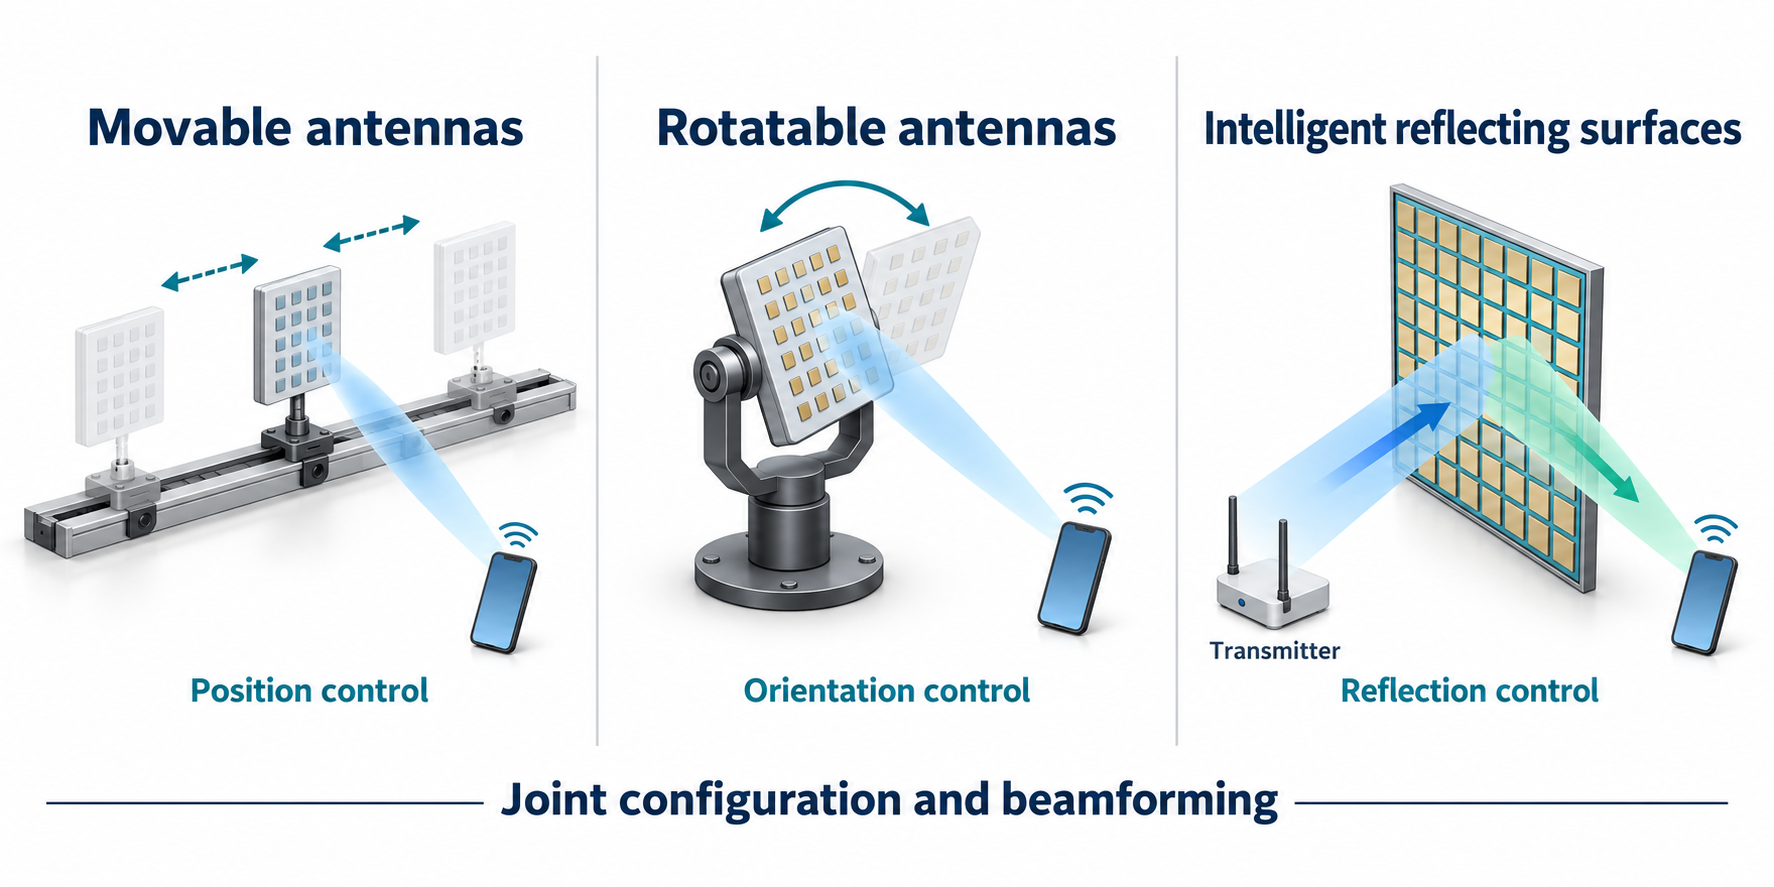
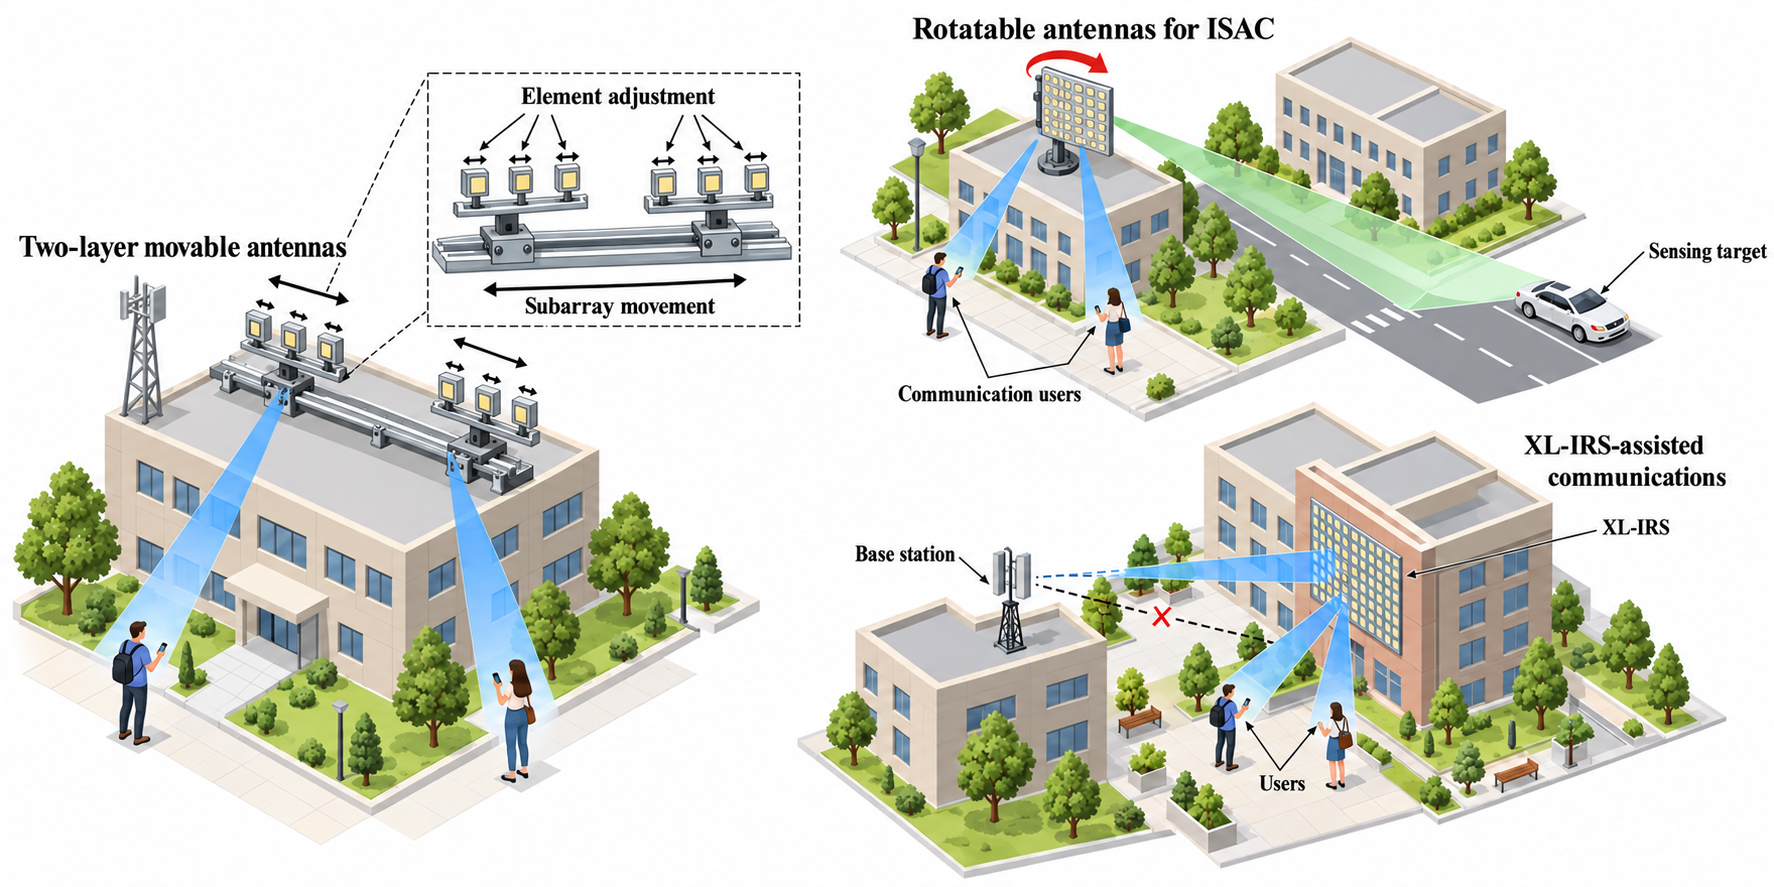
Ground research descriptions in publications and use white scenario illustrations

diff --git a/assets/css/academic.css b/assets/css/academic.css
@@ -1,6 +1,6 @@
 /* Shared academic template for all site pages. */
-body { color: #333; background: #fff; }
-.page__content, .page__content * { font-family: Georgia, "Times New Roman", serif; }
+body { color: #333; background: #fff; font-family: "Times New Roman", Times, serif; }
+.page__content, .page__content * { font-family: "Times New Roman", Times, serif; }
 .page__content { color: #333; font-size: 18px; line-height: 1.65; }
 .page__content p, .page__content li { text-align: justify; text-justify: inter-word; }
 .page__content a, .sidebar a, .masthead a, .page__footer a,
@@ -9,12 +9,13 @@ body { color: #333; background: #fff; }
 .page__content a:hover, .sidebar a:hover, .masthead a:hover, .page__footer a:hover { color: #111; text-decoration: underline; text-underline-offset: 3px; }
 a:focus-visible { outline: 2px solid #111; outline-offset: 4px; }
 .greedy-nav .visible-links a::before { background: #111; }
+.sidebar { font-family: "Times New Roman", Times, serif; }
 .sidebar, .sidebar .social-icons i { color: #333 !important; }
-.sidebar .author__name { color: #111; font-family: Georgia, "Times New Roman", serif; }
+.sidebar .author__name { color: #111; font-family: "Times New Roman", Times, serif; }
 .sidebar .author__avatar img { width: 160px; height: 160px; object-fit: cover; object-position: center; padding: 0; border: 0; border-radius: 50%; }
 
 /* Shared navigation and profile on every page. */
-.masthead .greedy-nav a, .masthead .greedy-nav a:visited { color: #111; font-family: "Segoe UI", Arial, sans-serif; font-weight: 700; text-decoration: none; }
+.masthead .greedy-nav a, .masthead .greedy-nav a:visited { color: #111; font-family: "Times New Roman", Times, serif; font-weight: 700; text-decoration: none; }
 .masthead .greedy-nav a:hover { color: #111; text-decoration: underline; text-underline-offset: 3px; }
 .masthead .greedy-nav .visible-links a::before { background: #111; }
 .sidebar .author__urls a, .sidebar .author__urls_sm a { color: #111; font-weight: 700; text-decoration: none; }
@@ -36,7 +37,7 @@ body .photo-item:hover { border-color: #ccc; }
 body .photo-caption { color: #555; }
 
 /* Keep the interactive community's own controls legible in both themes. */
-.dc-page, .dc-page * { font-family: "Segoe UI", Arial, sans-serif; }
+.dc-page, .dc-page * { font-family: "Times New Roman", Times, serif; }
 .dc-page p, .dc-page li { text-align: left; }
 .dc-page a, .dc-page a:visited, .dc-page a:hover { color: var(--dc-text); }
 .dc-page b, .dc-page strong { color: inherit; }
@@ -96,7 +97,7 @@ body .page__content .page-directory a:hover {
 /* Shared main navigation: title-sized labels, current-page color, separators. */
 .masthead #site-nav a,
 .masthead #site-nav a:visited {
-  color: #111; font-family: "Segoe UI", Arial, sans-serif;
+  color: #111; font-family: "Times New Roman", Times, serif;
   font-size: 32px; font-weight: 700; line-height: 1.2;
 }
 .masthead .masthead__menu-item--lg { padding-right: 0; }
@@ -124,7 +125,7 @@ body .page__content .page-directory a:hover {
 .research-topic p { margin: 0 0 16px; }
 .page__content .research-figure { display: block; width: 100%; margin: 24px 0 0; }
 .page__content .research-figure img { display: block; width: 100%; max-width: none; height: auto; margin: 0 auto; border: 1px solid #e5e5e5; border-radius: 0; background: #fff; }
-.page__content .research-figure figcaption { margin: 10px 0 0; color: #666; font-family: Georgia, "Times New Roman", serif; font-size: 14px; line-height: 1.5; text-align: center; }
+.page__content .research-figure figcaption { margin: 10px 0 0; color: #666; font-family: "Times New Roman", Times, serif; font-size: 14px; line-height: 1.5; text-align: center; }
 @media (max-width: 767px) {
   .page__content .research-topic h3 { font-size: 21px; }
   .research-topic { margin-bottom: 30px; }

diff --git a/_pages/about.md b/_pages/about.md
@@ -76,37 +76,37 @@ redirect_from:
 <div class="research-overview">
   <section class="research-topic" aria-labelledby="research-nfc">
     <h3 id="research-nfc">Near-field Communications (NFC)</h3>
-    <p>Near-field communications exploit the spherical wavefronts of large antenna arrays, making wireless channels dependent on both angle and distance. This enables spatially focused transmission and creates new opportunities for communications and sensing.</p>
-    <p><strong>My focus:</strong> I focus on flexible beamforming and beam coverage, mixed near-field and far-field communications, and robust transmission design. My work also explores physical-layer security and target localization in extremely large-scale MIMO (XL-MIMO) systems.</p>
+    <p>Near-field communications account for the spherical wavefronts of large antenna arrays, so that the channel response depends on both the angle and distance of a terminal. This angle–distance dependence supports beam focusing and motivates different designs from conventional far-field beam steering.</p>
+    <p><strong>My focus:</strong> My work covers <a href="https://doi.org/10.1109/TWC.2026.3717922">Fourier-transform-based beam coverage design</a> in near-field and far-field regions, <a href="https://doi.org/10.1109/TWC.2026.3690730">robust near-field beamforming under eavesdropper location uncertainty</a>, and <a href="https://doi.org/10.1109/TWC.2026.3673378">movable XL-array design for mixed-field covert communications</a>. These studies address beam coverage, secrecy robustness, and the joint optimization of subarray positions and transmit beamforming, respectively.</p>
     <figure class="research-figure">
-      <a class="research-image-link" href="/images/research/near-field-en.png" target="_blank" rel="noopener noreferrer" aria-label="Open full-resolution near field illustration">
-        <img src="/images/research/near-field-en.png" width="1672" height="941" loading="lazy" decoding="async" alt="English illustration of near-field and far-field wireless communication scenarios around an XL-MIMO base station.">
+      <a class="research-image-link" href="/images/research/near-field-en.png?v=20261009-white" target="_blank" rel="noopener noreferrer" aria-label="Open full-resolution near field illustration">
+        <img src="/images/research/near-field-en.png?v=20261009-white" width="1672" height="941" loading="lazy" decoding="async" alt="English illustration of near-field and far-field wireless communication scenarios around an XL-MIMO base station.">
       </a>
-      <figcaption>Near-field and far-field communications across industrial, urban, aerial, and campus scenarios.</figcaption>
+      <figcaption>Conceptual near-field and far-field communication scenarios; illustration only.</figcaption>
     </figure>
   </section>
 
   <section class="research-topic" aria-labelledby="research-antennas">
     <h3 id="research-antennas">Intelligent Antennas and Surfaces</h3>
-    <p>Intelligent antennas and surfaces introduce new ways to shape wireless propagation. Reconfigurable antennas adjust their positions or orientations, while intelligent reflecting surfaces (IRSs) tune reflected signals to improve the wireless channel.</p>
-    <p><strong>My focus:</strong> I focus on movable and rotatable antenna systems, IRS-assisted communications, and the joint design of antenna configurations, surface responses, and beamforming. My work also studies channel estimation and system deployment for large-scale IRSs.</p>
+    <p>Intelligent antennas and surfaces provide additional ways to configure a wireless channel: antennas can change position or orientation, while an intelligent reflecting surface (IRS) controls the reflected signal. Their configuration and placement affect the communication and sensing links.</p>
+    <p><strong>My focus:</strong> My published work includes <a href="https://doi.org/10.1109/LWC.2025.3580889">joint array-rotation and transmit-beamforming design for integrated sensing and communications</a>, <a href="https://doi.org/10.1109/LWC.2026.3651470">two-layer movable antenna positioning</a> through subarray movement and per-subarray element adjustment, and <a href="https://doi.org/10.1109/ICSIDP62679.2024.10868156">XL-IRS deployment optimization for multi-user communications</a>. The respective design objectives are balancing user sum-rate and target angle estimation, maximizing communication sum-rate, and optimizing surface placement for near-field multi-user transmission.</p>
     <figure class="research-figure">
-      <a class="research-image-link" href="/images/research/intelligent-antennas-en.png" target="_blank" rel="noopener noreferrer" aria-label="Open full-resolution intelligent antennas illustration">
-        <img src="/images/research/intelligent-antennas-en.png" width="1774" height="887" loading="lazy" decoding="async" alt="Original English illustration in three panels showing movable antenna position control, rotatable antenna orientation control, and intelligent reflecting surface reflection control.">
+      <a class="research-image-link" href="/images/research/intelligent-antennas-en.png?v=20261009-white" target="_blank" rel="noopener noreferrer" aria-label="Open full-resolution intelligent antennas illustration">
+        <img src="/images/research/intelligent-antennas-en.png?v=20261009-white" width="1774" height="887" loading="lazy" decoding="async" alt="White-background academic campus scenarios illustrating two-layer movable antenna positioning, rotatable antennas for ISAC, and XL-IRS-assisted multi-user communications, with black serif labels.">
       </a>
-      <figcaption>Position control, orientation control, and reflection control for joint configuration and beamforming.</figcaption>
+      <figcaption>Separate conceptual scenarios for two-layer movable antennas, rotatable-antenna ISAC, and XL-IRS-assisted multi-user communications; illustration only.</figcaption>
     </figure>
   </section>
 
   <section class="research-topic" aria-labelledby="research-backscatter">
     <h3 id="research-backscatter">Backscatter Communications and Symbiotic Radio</h3>
-    <p>Backscatter communications allow low-power devices to convey data by modulating and reflecting an incident radio signal. Symbiotic radio (SR) integrates these secondary transmissions with a primary communication link, allowing the two systems to share spectrum and signal resources.</p>
-    <p><strong>My focus:</strong> I focus on symbiotic radio systems assisted by active RISs, STAR-RISs, and movable antennas. My research develops joint beamforming and resource-allocation methods to reduce transmit power, improve energy efficiency, and enhance transmission security while supporting both primary and secondary links.</p>
+    <p>Backscatter communication conveys information by modulating and reflecting an incident radio signal. In symbiotic radio, the secondary transmission uses the primary signal as its carrier, and the primary and secondary links operate together.</p>
+    <p><strong>My focus:</strong> My work studies <a href="https://doi.org/10.1109/TCCN.2023.3306367">transmit-power minimization for STAR-RIS-assisted symbiotic radio</a> by designing active beamforming and surface transmission/reflection coefficients; <a href="https://doi.org/10.1109/TWC.2023.3265770">robust secure multicast transmission with an active RIS</a> under imperfect eavesdropper channel information; and <a href="https://doi.org/10.1109/LWC.2024.3443460">movable-antenna-enabled symbiotic radio</a> to improve primary and secondary rates through antenna positioning.</p>
     <figure class="research-figure">
-      <a class="research-image-link" href="/images/research/symbiotic-radio-en.png" target="_blank" rel="noopener noreferrer" aria-label="Open full-resolution symbiotic radio illustration">
-        <img src="/images/research/symbiotic-radio-en.png" width="1448" height="1086" loading="lazy" decoding="async" alt="English RIS-assisted symbiotic radio diagram showing a primary transmitter, a reconfigurable intelligent surface, a primary user and a secondary user, with five labeled signal paths.">
+      <a class="research-image-link" href="/images/research/symbiotic-radio-en.png?v=20261009-white" target="_blank" rel="noopener noreferrer" aria-label="Open full-resolution symbiotic radio illustration">
+        <img src="/images/research/symbiotic-radio-en.png?v=20261009-white" width="1448" height="1086" loading="lazy" decoding="async" alt="English RIS-assisted symbiotic radio diagram showing a primary transmitter, a reconfigurable intelligent surface, a primary user and a secondary user, with five labeled signal paths.">
       </a>
-      <figcaption>RIS-assisted symbiotic radio: primary transmission and secondary backscatter share signal and spectrum resources.</figcaption>
+      <figcaption>Conceptual RIS-assisted symbiotic radio links showing primary transmission and secondary backscatter; illustration only.</figcaption>
     </figure>
   </section>
 </div>
